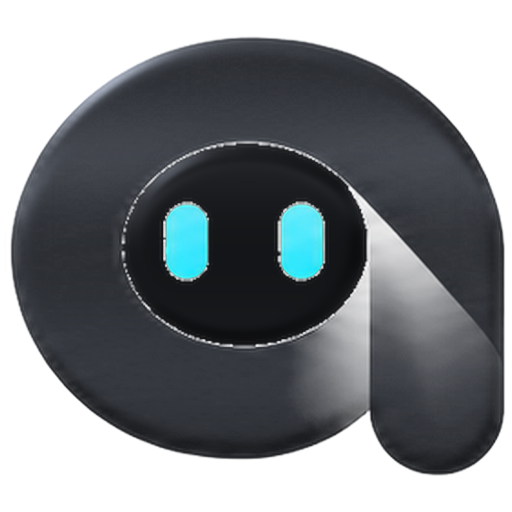
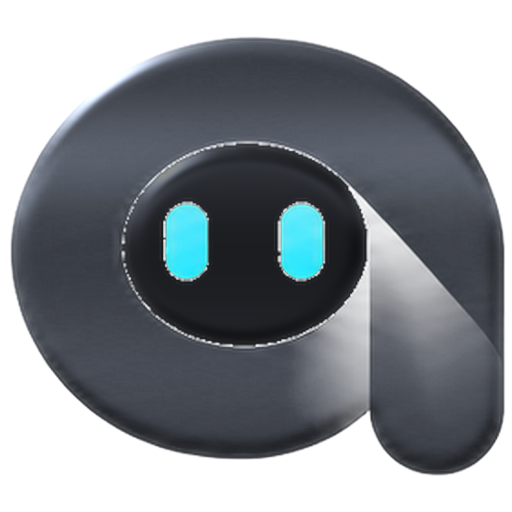
Icona admin: nero metallizzato piu' leggibile, simbolo piu' grande
Claude-Session: https://claude.ai/code/session_013KHrLJr8iAdieMJBx3Wy3a

diff --git a/public/admin/richieste.html b/public/admin/richieste.html
@@ -148,7 +148,7 @@ nav a.on{background:var(--card2);color:var(--ink);}
 .nav-badge{display:inline-block;min-width:20px;height:20px;margin-left:7px;padding:0 6px;border-radius:999px;background:var(--red);color:#2a0a0a;font-size:.74rem;font-weight:800;line-height:20px;text-align:center;vertical-align:1px}
 @media(max-width:640px){.req{padding:16px}.req-top .when{margin-left:0;width:100%}.req-act .handled{margin-left:0;width:100%}}
 </style>
-<link rel="manifest" href="/admin/manifest.webmanifest"><meta name="theme-color" content="#000000"><meta name="mobile-web-app-capable" content="yes"><meta name="apple-mobile-web-app-capable" content="yes"><meta name="apple-mobile-web-app-title" content="Prenolia Admin"><meta name="apple-mobile-web-app-status-bar-style" content="black"><link rel="icon" type="image/png" sizes="64x64" href="/admin/icons/admin-64.png?v=2"><link rel="icon" type="image/png" sizes="512x512" href="/admin/icons/admin-512.png?v=2"><link rel="apple-touch-icon" href="/admin/icons/admin-apple-180.png?v=2">
+<link rel="manifest" href="/admin/manifest.webmanifest"><meta name="theme-color" content="#000000"><meta name="mobile-web-app-capable" content="yes"><meta name="apple-mobile-web-app-capable" content="yes"><meta name="apple-mobile-web-app-title" content="Prenolia Admin"><meta name="apple-mobile-web-app-status-bar-style" content="black"><link rel="icon" type="image/png" sizes="64x64" href="/admin/icons/admin-64.png?v=3"><link rel="icon" type="image/png" sizes="512x512" href="/admin/icons/admin-512.png?v=3"><link rel="apple-touch-icon" href="/admin/icons/admin-apple-180.png?v=3">
 <link rel="stylesheet" href="/admin/mobile.css">
 </head>
 <body>

diff --git a/public/admin/sistema.html b/public/admin/sistema.html
@@ -137,7 +137,7 @@ input[type=range]{width:100%;accent-color:var(--accent);height:34px;margin:0;}
 .pagehd{margin-bottom:18px;}
 @media (max-width:760px){.panel{padding:16px;border-radius:18px;}.big{font-size:1.7rem;}.panel .btn{width:100%;}.exp .acts .btn{width:auto;flex:1 1 auto;}}
 </style>
-<link rel="manifest" href="/admin/manifest.webmanifest"><meta name="theme-color" content="#000000"><meta name="mobile-web-app-capable" content="yes"><meta name="apple-mobile-web-app-capable" content="yes"><meta name="apple-mobile-web-app-title" content="Prenolia Admin"><meta name="apple-mobile-web-app-status-bar-style" content="black"><link rel="icon" type="image/png" sizes="64x64" href="/admin/icons/admin-64.png?v=2"><link rel="icon" type="image/png" sizes="512x512" href="/admin/icons/admin-512.png?v=2"><link rel="apple-touch-icon" href="/admin/icons/admin-apple-180.png?v=2">
+<link rel="manifest" href="/admin/manifest.webmanifest"><meta name="theme-color" content="#000000"><meta name="mobile-web-app-capable" content="yes"><meta name="apple-mobile-web-app-capable" content="yes"><meta name="apple-mobile-web-app-title" content="Prenolia Admin"><meta name="apple-mobile-web-app-status-bar-style" content="black"><link rel="icon" type="image/png" sizes="64x64" href="/admin/icons/admin-64.png?v=3"><link rel="icon" type="image/png" sizes="512x512" href="/admin/icons/admin-512.png?v=3"><link rel="apple-touch-icon" href="/admin/icons/admin-apple-180.png?v=3">
 <link rel="stylesheet" href="/admin/mobile.css">
 </head>
 <body>

diff --git a/public/admin/soldi.html b/public/admin/soldi.html
@@ -149,7 +149,7 @@ nav a.on{background:var(--card2);color:var(--ink);}
 .dayh{display:flex;justify-content:space-between;color:var(--muted);font-size:.78rem;text-transform:uppercase;letter-spacing:.03em;margin:14px 0 2px;}
 .pill.soft{background:var(--card2);color:var(--muted);}
 </style>
-<link rel="manifest" href="/admin/manifest.webmanifest"><meta name="theme-color" content="#000000"><meta name="mobile-web-app-capable" content="yes"><meta name="apple-mobile-web-app-capable" content="yes"><meta name="apple-mobile-web-app-title" content="Prenolia Admin"><meta name="apple-mobile-web-app-status-bar-style" content="black"><link rel="icon" type="image/png" sizes="64x64" href="/admin/icons/admin-64.png?v=2"><link rel="icon" type="image/png" sizes="512x512" href="/admin/icons/admin-512.png?v=2"><link rel="apple-touch-icon" href="/admin/icons/admin-apple-180.png?v=2">
+<link rel="manifest" href="/admin/manifest.webmanifest"><meta name="theme-color" content="#000000"><meta name="mobile-web-app-capable" content="yes"><meta name="apple-mobile-web-app-capable" content="yes"><meta name="apple-mobile-web-app-title" content="Prenolia Admin"><meta name="apple-mobile-web-app-status-bar-style" content="black"><link rel="icon" type="image/png" sizes="64x64" href="/admin/icons/admin-64.png?v=3"><link rel="icon" type="image/png" sizes="512x512" href="/admin/icons/admin-512.png?v=3"><link rel="apple-touch-icon" href="/admin/icons/admin-apple-180.png?v=3">
 <link rel="stylesheet" href="/admin/mobile.css">
 </head>
 <body>

diff --git a/public/admin/login.html b/public/admin/login.html
@@ -112,7 +112,7 @@ nav a.on{background:var(--card2);color:var(--ink);}
 .loginbox .btn{width:100%;justify-content:center;margin-top:20px;min-height:48px;}
 .loginbox .err{margin-top:14px;background:#3a1c1c;color:#ffb4b4;padding:10px 14px;border-radius:12px;font-size:.9rem;line-height:1.4;display:none;}
 </style>
-<link rel="manifest" href="/admin/manifest.webmanifest"><meta name="theme-color" content="#000000"><meta name="mobile-web-app-capable" content="yes"><meta name="apple-mobile-web-app-capable" content="yes"><meta name="apple-mobile-web-app-title" content="Prenolia Admin"><meta name="apple-mobile-web-app-status-bar-style" content="black"><link rel="icon" type="image/png" sizes="64x64" href="/admin/icons/admin-64.png?v=2"><link rel="icon" type="image/png" sizes="512x512" href="/admin/icons/admin-512.png?v=2"><link rel="apple-touch-icon" href="/admin/icons/admin-apple-180.png?v=2">
+<link rel="manifest" href="/admin/manifest.webmanifest"><meta name="theme-color" content="#000000"><meta name="mobile-web-app-capable" content="yes"><meta name="apple-mobile-web-app-capable" content="yes"><meta name="apple-mobile-web-app-title" content="Prenolia Admin"><meta name="apple-mobile-web-app-status-bar-style" content="black"><link rel="icon" type="image/png" sizes="64x64" href="/admin/icons/admin-64.png?v=3"><link rel="icon" type="image/png" sizes="512x512" href="/admin/icons/admin-512.png?v=3"><link rel="apple-touch-icon" href="/admin/icons/admin-apple-180.png?v=3">
 </head>
 <body>
 <div class="loginbox">

diff --git a/public/admin/attivita.html b/public/admin/attivita.html
@@ -137,7 +137,7 @@ nav a.on{background:var(--card2);color:var(--ink);}
 .bub small{display:block;color:var(--muted);font-size:.72rem;margin-top:4px;}
 .loading{color:var(--muted);padding:40px 0;text-align:center;}
 </style>
-<link rel="manifest" href="/admin/manifest.webmanifest"><meta name="theme-color" content="#000000"><meta name="mobile-web-app-capable" content="yes"><meta name="apple-mobile-web-app-capable" content="yes"><meta name="apple-mobile-web-app-title" content="Prenolia Admin"><meta name="apple-mobile-web-app-status-bar-style" content="black"><link rel="icon" type="image/png" sizes="64x64" href="/admin/icons/admin-64.png?v=2"><link rel="icon" type="image/png" sizes="512x512" href="/admin/icons/admin-512.png?v=2"><link rel="apple-touch-icon" href="/admin/icons/admin-apple-180.png?v=2">
+<link rel="manifest" href="/admin/manifest.webmanifest"><meta name="theme-color" content="#000000"><meta name="mobile-web-app-capable" content="yes"><meta name="apple-mobile-web-app-capable" content="yes"><meta name="apple-mobile-web-app-title" content="Prenolia Admin"><meta name="apple-mobile-web-app-status-bar-style" content="black"><link rel="icon" type="image/png" sizes="64x64" href="/admin/icons/admin-64.png?v=3"><link rel="icon" type="image/png" sizes="512x512" href="/admin/icons/admin-512.png?v=3"><link rel="apple-touch-icon" href="/admin/icons/admin-apple-180.png?v=3">
 <link rel="stylesheet" href="/admin/mobile.css">
 </head>
 <body>

diff --git a/public/admin/clienti.html b/public/admin/clienti.html
@@ -101,7 +101,7 @@ nav a.on{background:var(--card2);color:var(--ink);}
 .btn.danger{background:transparent;color:#FF8A8A;box-shadow:inset 0 0 0 1.5px #5A2A2A;}
 .act-btn{justify-content:center;width:100%;}
 </style>
-<link rel="manifest" href="/admin/manifest.webmanifest"><meta name="theme-color" content="#000000"><meta name="mobile-web-app-capable" content="yes"><meta name="apple-mobile-web-app-capable" content="yes"><meta name="apple-mobile-web-app-title" content="Prenolia Admin"><meta name="apple-mobile-web-app-status-bar-style" content="black"><link rel="icon" type="image/png" sizes="64x64" href="/admin/icons/admin-64.png?v=2"><link rel="icon" type="image/png" sizes="512x512" href="/admin/icons/admin-512.png?v=2"><link rel="apple-touch-icon" href="/admin/icons/admin-apple-180.png?v=2">
+<link rel="manifest" href="/admin/manifest.webmanifest"><meta name="theme-color" content="#000000"><meta name="mobile-web-app-capable" content="yes"><meta name="apple-mobile-web-app-capable" content="yes"><meta name="apple-mobile-web-app-title" content="Prenolia Admin"><meta name="apple-mobile-web-app-status-bar-style" content="black"><link rel="icon" type="image/png" sizes="64x64" href="/admin/icons/admin-64.png?v=3"><link rel="icon" type="image/png" sizes="512x512" href="/admin/icons/admin-512.png?v=3"><link rel="apple-touch-icon" href="/admin/icons/admin-apple-180.png?v=3">
 <link rel="stylesheet" href="/admin/mobile.css">
 </head>
 <body>

diff --git a/public/admin/index.html b/public/admin/index.html
@@ -101,7 +101,7 @@ h1,h2,p{margin:0;}
 .panel h2 .live-note{font-weight:500;color:var(--muted);font-size:.8rem;margin-left:8px;}
 @media (max-width:760px){.panel{padding:16px;border-radius:18px;}}
 </style>
-<link rel="manifest" href="/admin/manifest.webmanifest"><meta name="theme-color" content="#000000"><meta name="mobile-web-app-capable" content="yes"><meta name="apple-mobile-web-app-capable" content="yes"><meta name="apple-mobile-web-app-title" content="Prenolia Admin"><meta name="apple-mobile-web-app-status-bar-style" content="black"><link rel="icon" type="image/png" sizes="64x64" href="/admin/icons/admin-64.png?v=2"><link rel="icon" type="image/png" sizes="512x512" href="/admin/icons/admin-512.png?v=2"><link rel="apple-touch-icon" href="/admin/icons/admin-apple-180.png?v=2">
+<link rel="manifest" href="/admin/manifest.webmanifest"><meta name="theme-color" content="#000000"><meta name="mobile-web-app-capable" content="yes"><meta name="apple-mobile-web-app-capable" content="yes"><meta name="apple-mobile-web-app-title" content="Prenolia Admin"><meta name="apple-mobile-web-app-status-bar-style" content="black"><link rel="icon" type="image/png" sizes="64x64" href="/admin/icons/admin-64.png?v=3"><link rel="icon" type="image/png" sizes="512x512" href="/admin/icons/admin-512.png?v=3"><link rel="apple-touch-icon" href="/admin/icons/admin-apple-180.png?v=3">
 <link rel="stylesheet" href="/admin/mobile.css">
 </head>
 <body>

diff --git a/public/admin/lia.html b/public/admin/lia.html
@@ -135,7 +135,7 @@ nav a.on{background:var(--card2);color:var(--ink);}
 .empty{color:var(--muted);font-size:.92rem;padding:8px 0;}
 .loading{color:var(--muted);padding:40px 0;text-align:center;}
 </style>
-<link rel="manifest" href="/admin/manifest.webmanifest"><meta name="theme-color" content="#000000"><meta name="mobile-web-app-capable" content="yes"><meta name="apple-mobile-web-app-capable" content="yes"><meta name="apple-mobile-web-app-title" content="Prenolia Admin"><meta name="apple-mobile-web-app-status-bar-style" content="black"><link rel="icon" type="image/png" sizes="64x64" href="/admin/icons/admin-64.png?v=2"><link rel="icon" type="image/png" sizes="512x512" href="/admin/icons/admin-512.png?v=2"><link rel="apple-touch-icon" href="/admin/icons/admin-apple-180.png?v=2">
+<link rel="manifest" href="/admin/manifest.webmanifest"><meta name="theme-color" content="#000000"><meta name="mobile-web-app-capable" content="yes"><meta name="apple-mobile-web-app-capable" content="yes"><meta name="apple-mobile-web-app-title" content="Prenolia Admin"><meta name="apple-mobile-web-app-status-bar-style" content="black"><link rel="icon" type="image/png" sizes="64x64" href="/admin/icons/admin-64.png?v=3"><link rel="icon" type="image/png" sizes="512x512" href="/admin/icons/admin-512.png?v=3"><link rel="apple-touch-icon" href="/admin/icons/admin-apple-180.png?v=3">
 <link rel="stylesheet" href="/admin/mobile.css">
 </head>
 <body>

diff --git a/public/admin/ordini.html b/public/admin/ordini.html
@@ -169,7 +169,7 @@ nav a.on{background:var(--card2);color:var(--ink);}
 .ord-print dt{color:var(--muted)}.ord-print dd{margin:0;word-break:break-word}
 .ord-print .copyrow{padding:0 14px 12px}
 </style>
-<link rel="manifest" href="/admin/manifest.webmanifest"><meta name="theme-color" content="#000000"><meta name="mobile-web-app-capable" content="yes"><meta name="apple-mobile-web-app-capable" content="yes"><meta name="apple-mobile-web-app-title" content="Prenolia Admin"><meta name="apple-mobile-web-app-status-bar-style" content="black"><link rel="icon" type="image/png" sizes="64x64" href="/admin/icons/admin-64.png?v=2"><link rel="icon" type="image/png" sizes="512x512" href="/admin/icons/admin-512.png?v=2"><link rel="apple-touch-icon" href="/admin/icons/admin-apple-180.png?v=2">
+<link rel="manifest" href="/admin/manifest.webmanifest"><meta name="theme-color" content="#000000"><meta name="mobile-web-app-capable" content="yes"><meta name="apple-mobile-web-app-capable" content="yes"><meta name="apple-mobile-web-app-title" content="Prenolia Admin"><meta name="apple-mobile-web-app-status-bar-style" content="black"><link rel="icon" type="image/png" sizes="64x64" href="/admin/icons/admin-64.png?v=3"><link rel="icon" type="image/png" sizes="512x512" href="/admin/icons/admin-512.png?v=3"><link rel="apple-touch-icon" href="/admin/icons/admin-apple-180.png?v=3">
 <link rel="stylesheet" href="/admin/mobile.css">
 </head>
 <body>

diff --git a/public/admin/costi.html b/public/admin/costi.html
@@ -155,7 +155,7 @@ nav a.on{background:var(--card2);color:var(--ink);}
 .neg{color:#FF8A8A;} .pos{color:#3FE08A;}
 .saved{color:#3FE08A;font-size:.8rem;}
 </style>
-<link rel="manifest" href="/admin/manifest.webmanifest"><meta name="theme-color" content="#000000"><meta name="mobile-web-app-capable" content="yes"><meta name="apple-mobile-web-app-capable" content="yes"><meta name="apple-mobile-web-app-title" content="Prenolia Admin"><meta name="apple-mobile-web-app-status-bar-style" content="black"><link rel="icon" type="image/png" sizes="64x64" href="/admin/icons/admin-64.png?v=2"><link rel="icon" type="image/png" sizes="512x512" href="/admin/icons/admin-512.png?v=2"><link rel="apple-touch-icon" href="/admin/icons/admin-apple-180.png?v=2">
+<link rel="manifest" href="/admin/manifest.webmanifest"><meta name="theme-color" content="#000000"><meta name="mobile-web-app-capable" content="yes"><meta name="apple-mobile-web-app-capable" content="yes"><meta name="apple-mobile-web-app-title" content="Prenolia Admin"><meta name="apple-mobile-web-app-status-bar-style" content="black"><link rel="icon" type="image/png" sizes="64x64" href="/admin/icons/admin-64.png?v=3"><link rel="icon" type="image/png" sizes="512x512" href="/admin/icons/admin-512.png?v=3"><link rel="apple-touch-icon" href="/admin/icons/admin-apple-180.png?v=3">
 <link rel="stylesheet" href="/admin/mobile.css">
 </head>
 <body>

diff --git a/public/admin/referral.html b/public/admin/referral.html
@@ -1,6 +1,6 @@
 <!doctype html>
 <html lang="it">
-<head><link rel="manifest" href="/admin/manifest.webmanifest"><meta name="theme-color" content="#000000"><meta name="mobile-web-app-capable" content="yes"><meta name="apple-mobile-web-app-capable" content="yes"><meta name="apple-mobile-web-app-title" content="Prenolia Admin"><meta name="apple-mobile-web-app-status-bar-style" content="black"><link rel="icon" type="image/png" sizes="64x64" href="/admin/icons/admin-64.png?v=2"><link rel="icon" type="image/png" sizes="512x512" href="/admin/icons/admin-512.png?v=2"><link rel="apple-touch-icon" href="/admin/icons/admin-apple-180.png?v=2">
+<head><link rel="manifest" href="/admin/manifest.webmanifest"><meta name="theme-color" content="#000000"><meta name="mobile-web-app-capable" content="yes"><meta name="apple-mobile-web-app-capable" content="yes"><meta name="apple-mobile-web-app-title" content="Prenolia Admin"><meta name="apple-mobile-web-app-status-bar-style" content="black"><link rel="icon" type="image/png" sizes="64x64" href="/admin/icons/admin-64.png?v=3"><link rel="icon" type="image/png" sizes="512x512" href="/admin/icons/admin-512.png?v=3"><link rel="apple-touch-icon" href="/admin/icons/admin-apple-180.png?v=3">
 <meta name="robots" content="noindex, nofollow">
 <meta charset="utf-8">
 <meta name="viewport" content="width=device-width, initial-scale=1, viewport-fit=cover">

diff --git a/public/admin/andamento.html b/public/admin/andamento.html
@@ -76,7 +76,7 @@ h1,h2,p{margin:0;}
 
 .note{margin-top:22px;color:var(--muted);font-size:.85rem;text-align:center;}
 </style>
-<link rel="manifest" href="/admin/manifest.webmanifest"><meta name="theme-color" content="#000000"><meta name="mobile-web-app-capable" content="yes"><meta name="apple-mobile-web-app-capable" content="yes"><meta name="apple-mobile-web-app-title" content="Prenolia Admin"><meta name="apple-mobile-web-app-status-bar-style" content="black"><link rel="icon" type="image/png" sizes="64x64" href="/admin/icons/admin-64.png?v=2"><link rel="icon" type="image/png" sizes="512x512" href="/admin/icons/admin-512.png?v=2"><link rel="apple-touch-icon" href="/admin/icons/admin-apple-180.png?v=2">
+<link rel="manifest" href="/admin/manifest.webmanifest"><meta name="theme-color" content="#000000"><meta name="mobile-web-app-capable" content="yes"><meta name="apple-mobile-web-app-capable" content="yes"><meta name="apple-mobile-web-app-title" content="Prenolia Admin"><meta name="apple-mobile-web-app-status-bar-style" content="black"><link rel="icon" type="image/png" sizes="64x64" href="/admin/icons/admin-64.png?v=3"><link rel="icon" type="image/png" sizes="512x512" href="/admin/icons/admin-512.png?v=3"><link rel="apple-touch-icon" href="/admin/icons/admin-apple-180.png?v=3">
 <link rel="stylesheet" href="/admin/mobile.css">
 </head>
 <body>
